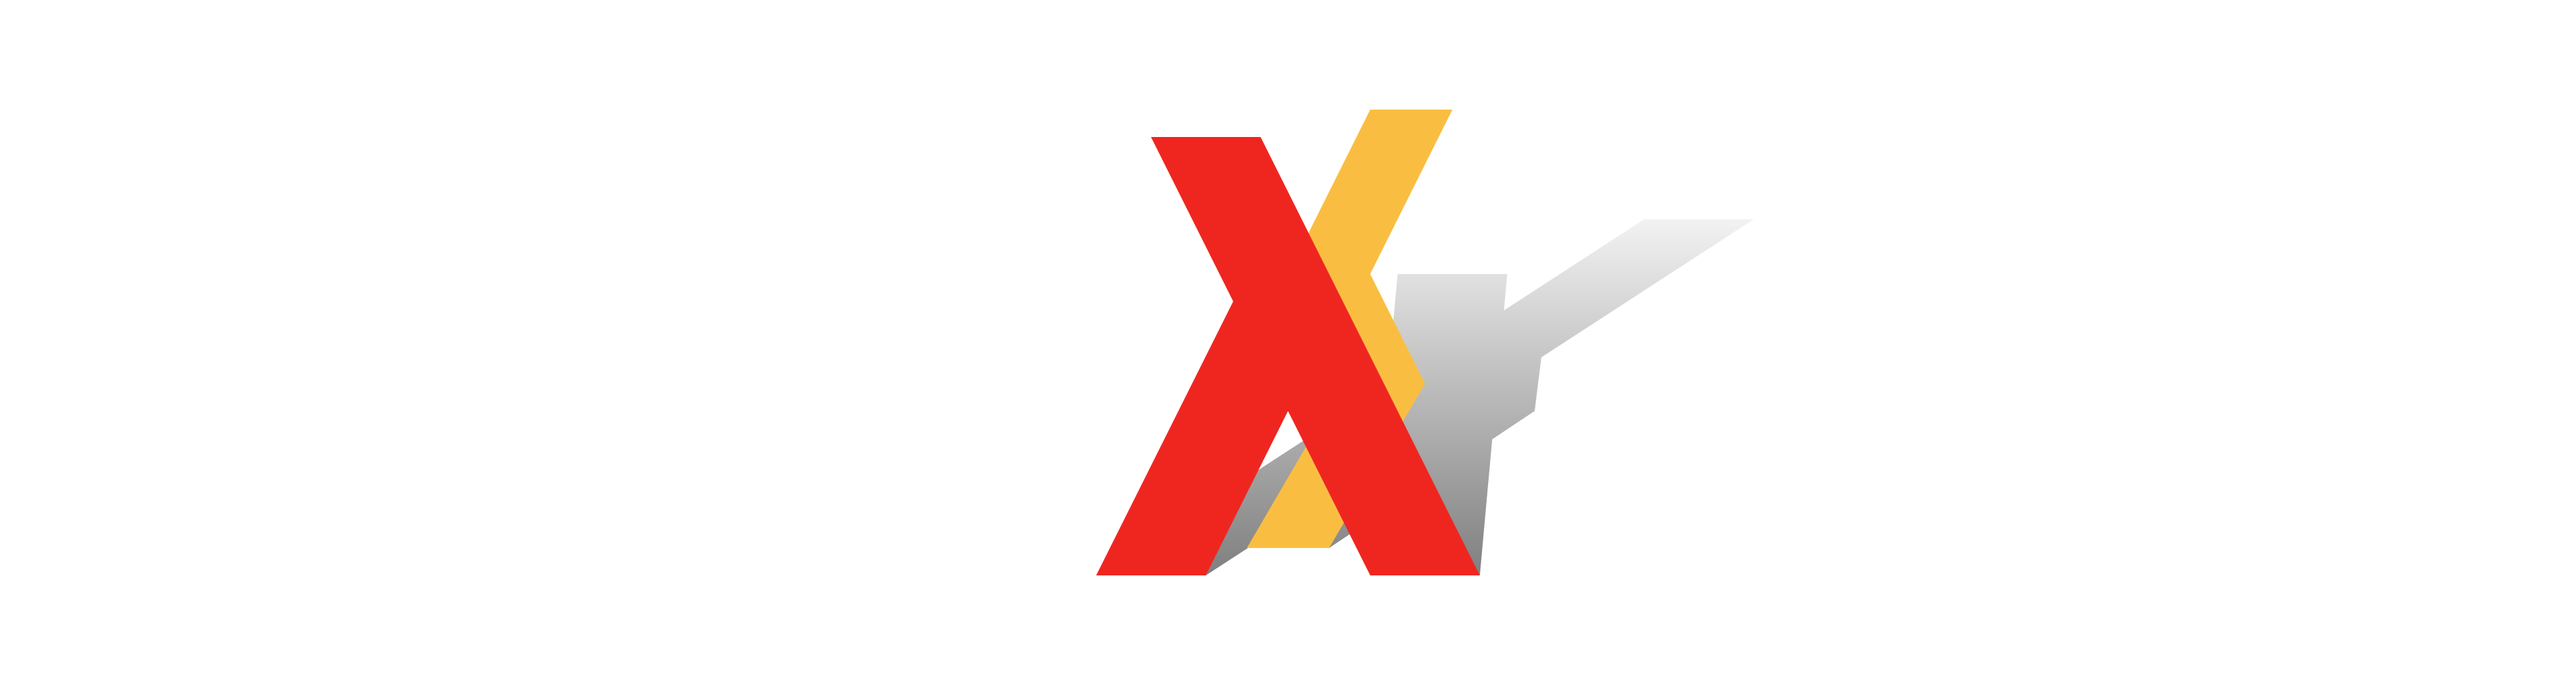
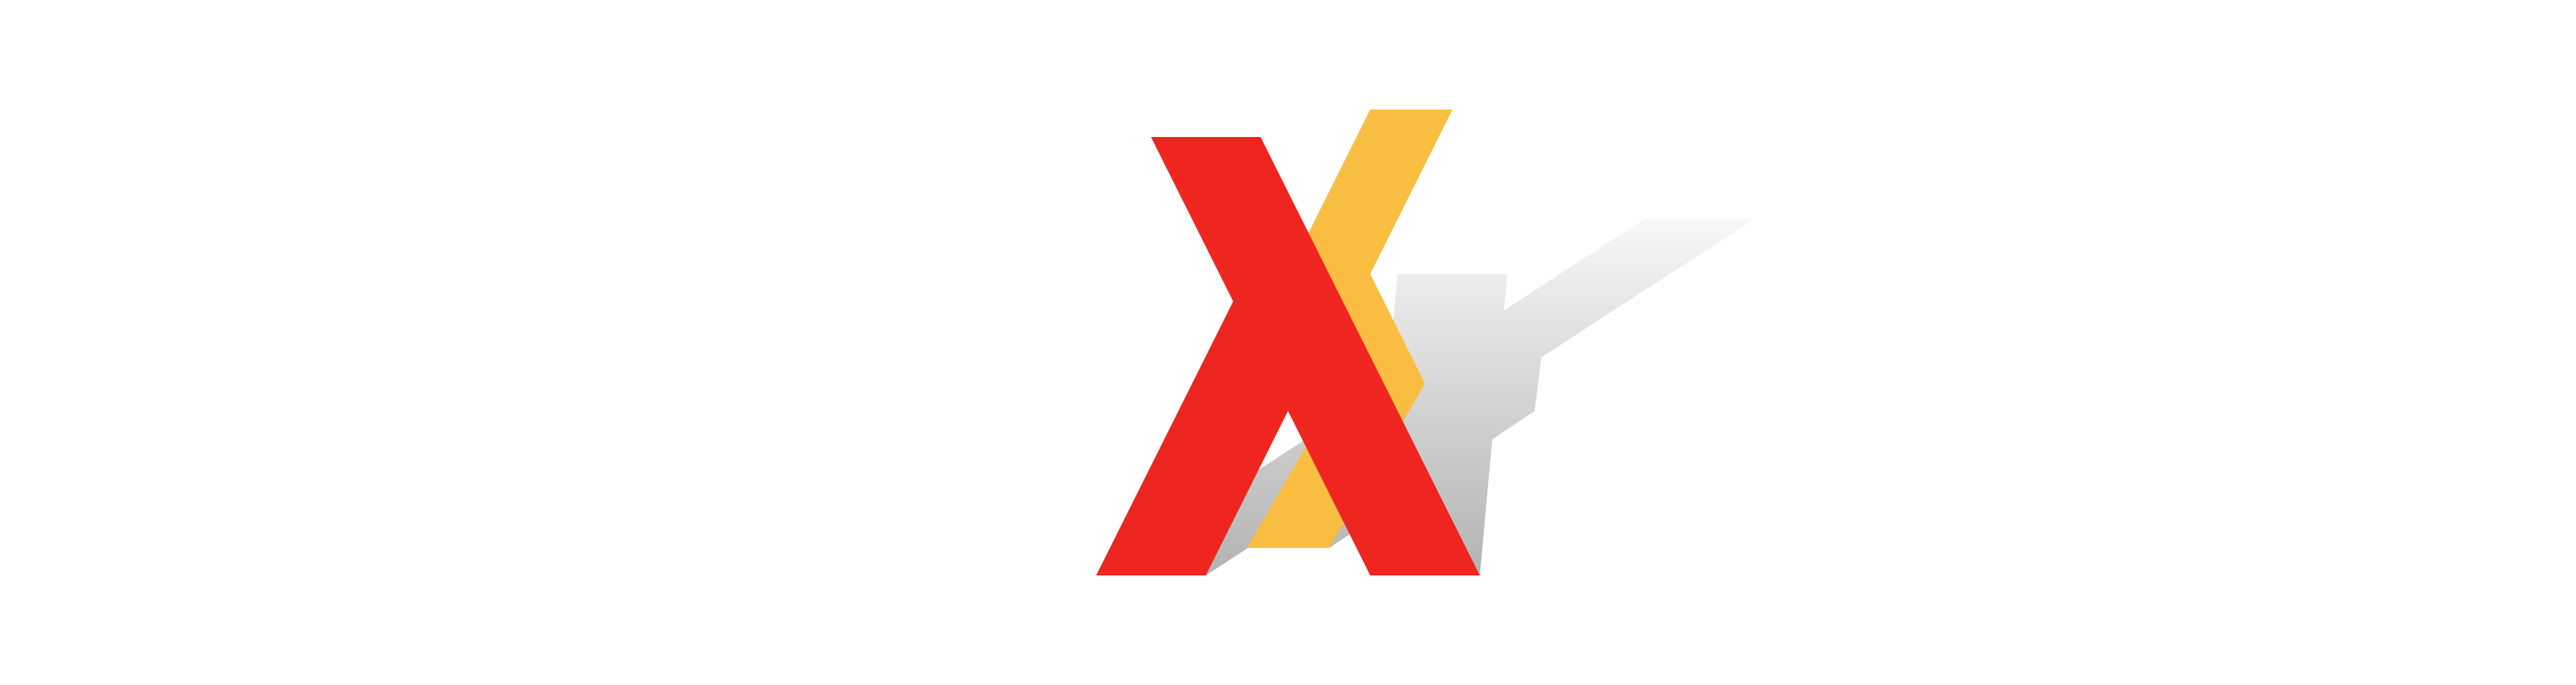
Weaker shadow

Changed region(s): [[0.4979, 0.527, 0.6223, 0.806], [0.4668, 0.682, 0.4979, 0.837]]

diff --git a/icon.rb b/icon.rb
@@ -26,7 +26,7 @@ puts(xml do
                        x2: '0%', y2: '0%' do
           stop offset: '0%',
                'stop-color' => 'black',
-               'stop-opacity' => '50%'
+               'stop-opacity' => '30%'
           stop offset: '85%',
                'stop-color' => 'black',
                'stop-opacity' => '0%'
